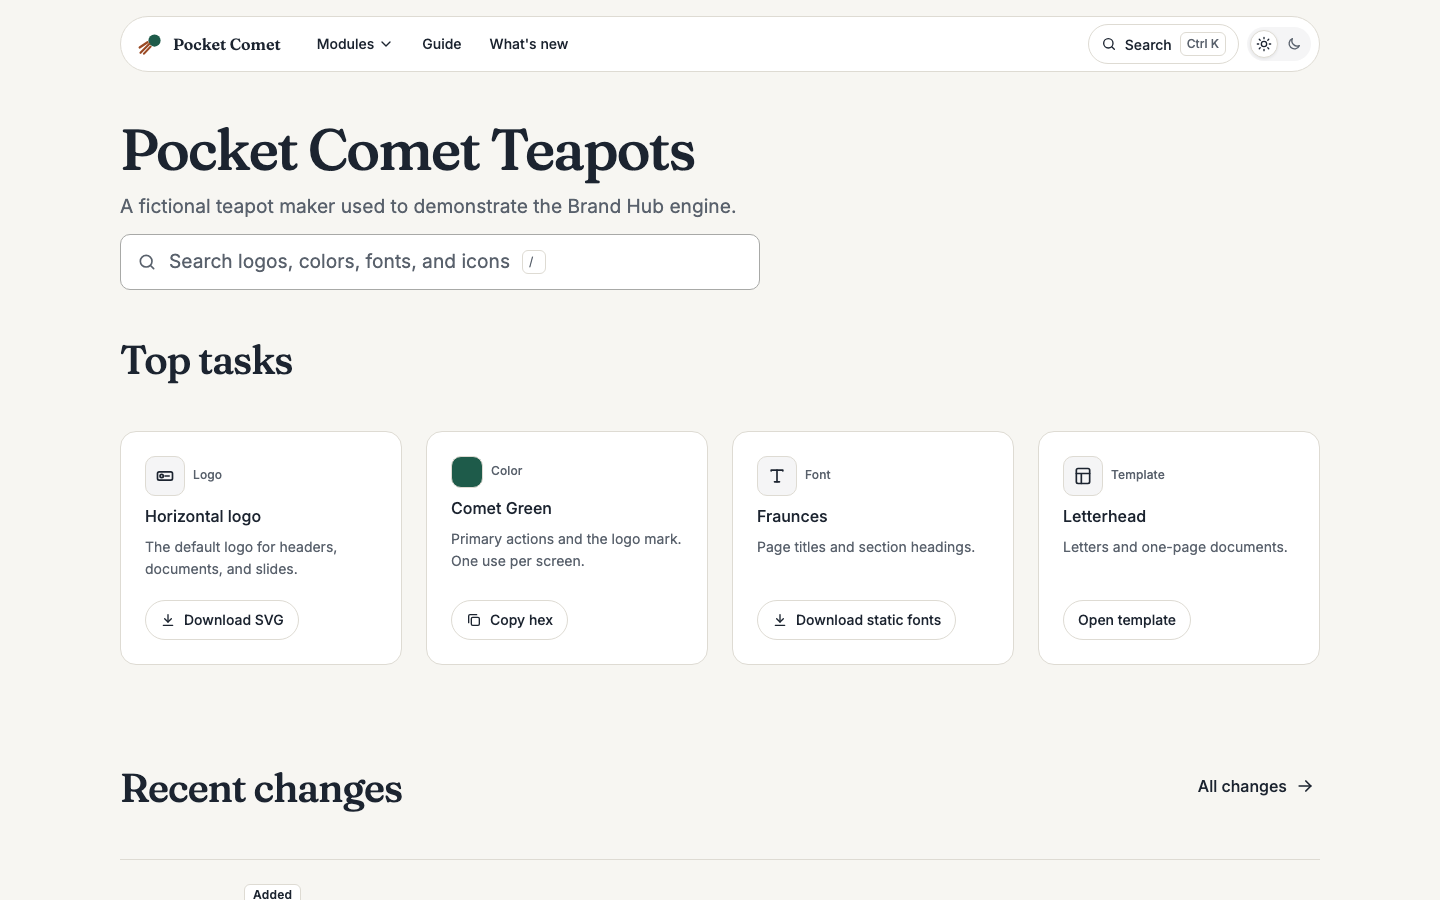
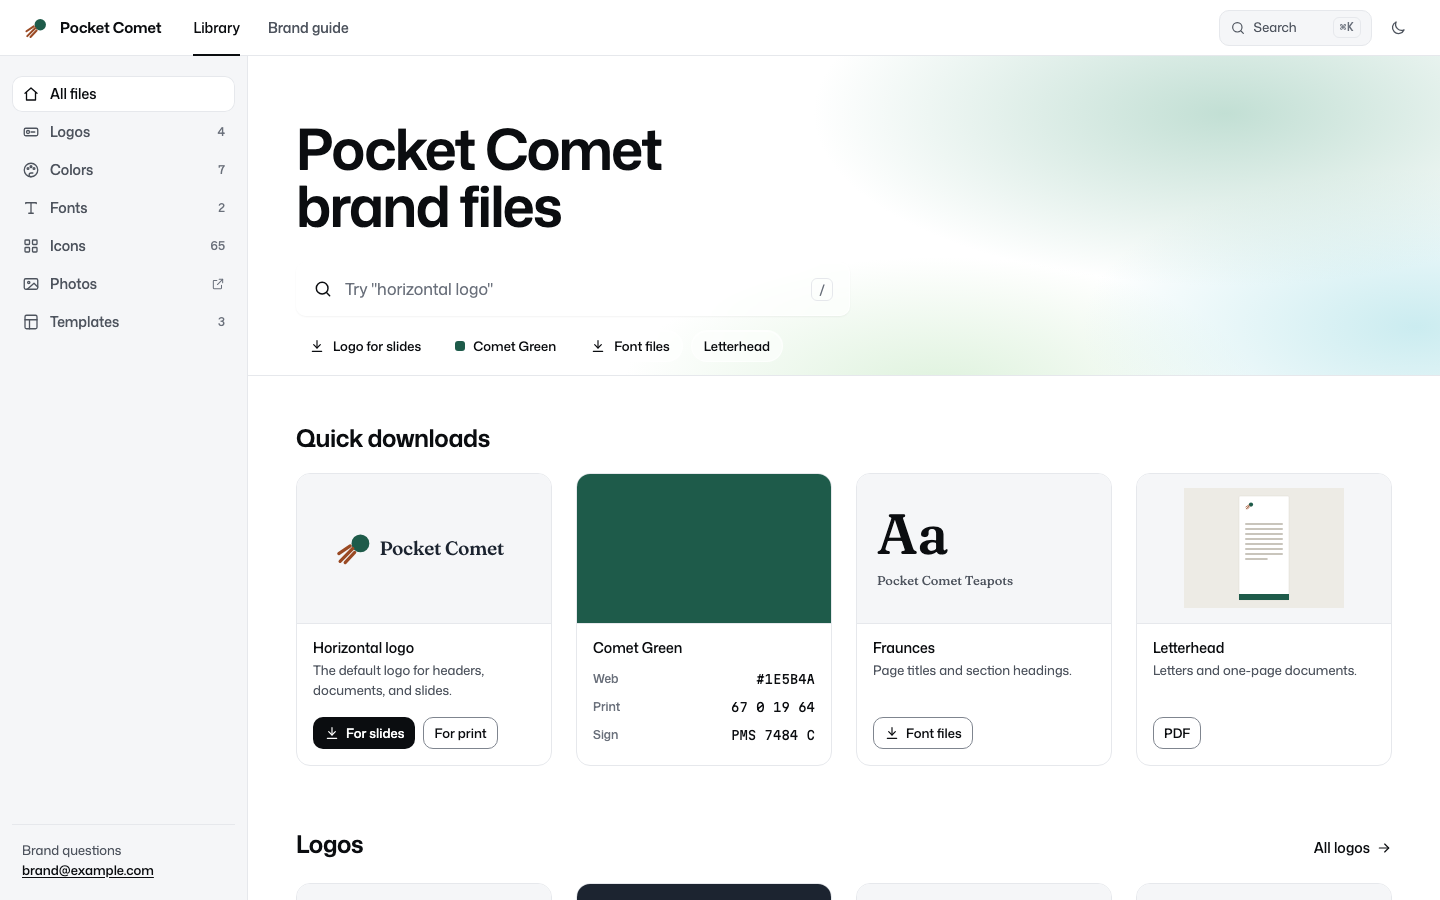
docs: update README for 0.2

diff --git a/README.md b/README.md
@@ -2,11 +2,11 @@
 
 An engine for brand resource sites. It builds a static site of logos, colors, fonts, icons, photos, templates, and brand rules from a folder of brand data, plus an in-site editor for changing that data. One engine serves many brands. Each brand lives in its own instance repository and pins a tagged engine version.
 
-The engine is an [Astro](https://astro.build) integration. Pages are static HTML. React is used only for interactive islands (search, icon detail, logo helper, signature generator, admin).
+The engine is an [Astro](https://astro.build) integration. Pages are static HTML, rendered from React components at build time. In the browser, React runs only in the search dialog and the editor; the rest is a few small page scripts.
 
-Status: 0.1.0. The public site covers home, search, logos, colors, fonts, icons, photos, templates, What's new, and rule pages under `/guide`. The editor at `/admin` edits, previews, saves, and publishes through adapters (`docs/ADAPTERS.md`). Start, signature, and boilerplate arrive in 0.3 and 0.4.
+Status: 0.2.0. The engine owns the interface: a neutral shell in light and dark, with its own interface fonts, that every brand gets unchanged. The public site has three parts: Library (home, logos, colors, fonts, icons, photos, templates), Brand guide (rules grouped into chapters), and Create (the email signature, from 0.3). The editor at `/admin` has an Overview, one workspace per section, and Brand settings, and saves and publishes through adapters (`docs/ADAPTERS.md`). The signature, New to the team, the Office theme, and company descriptions arrive in 0.3 and 0.4.
 
-![Home page of the demo brand, Pocket Comet Teapots: search field, top tasks, and recent changes](docs/screenshot.png)
+![Home page of the demo brand, Pocket Comet Teapots: the sidebar, the search-first hero over a pale green gradient, and Quick downloads](docs/screenshot.png)
 
 The screenshot shows `brands/demo`, a fictional teapot maker used for development, tests, and the public demo.
 
@@ -21,6 +21,13 @@ The screenshot shows `brands/demo`, a fictional teapot maker used for developmen
 pnpm install
 pnpm dev          # http://localhost:4321 with the demo brand; the editor is at /admin
 ```
+
+The site you see is the engine's shell filled with the data in `brands/demo/`. To change what it shows, edit that data, either in the editor at `/admin` (under `pnpm dev` it writes the files on disk) or by hand:
+
+- `brands/demo/*.json` holds the logos, colors, fonts, icons, templates, photo library, and rules. `files/` holds the files they point to.
+- `brands/demo/brand.json` holds the name, the primary color that tints the home hero, the guide chapters, and the Quick downloads row.
+
+Nothing in the brand folder changes the interface itself: colors, type, spacing, and components belong to the engine (see Theming).
 
 ## Commands
 
@@ -51,30 +58,31 @@ hub.config.ts ──► integration ──► loader (schemas + integrity + cont
 | Path | What it does |
 |---|---|
 | `src/integration/index.ts` | `brandHub()` Astro integration. Loads `hub.config.ts`, loads the brand, injects routes, serves `virtual:brand-hub` to pages. |
-| `src/content/load.ts` | Reads `brands/<slug>/`, validates every file, checks ids, references, file paths, and contrast. Returns locked items for public pages and pending items for the "In progress" list. |
-| `src/theme/` | Turns `brand.json` tokens into CSS custom properties for light and dark, and checks WCAG AA contrast. |
-| `src/modules/` | One folder per module. `registry.ts` holds each module's route, label, and menu line. |
-| `src/components/` | Layout, header, footer, and shared components (Button, Card, Tabs, Pills, Accordion, ChangelogEntry ...). |
-| `src/islands/` | React islands: search dialog (loaded on first use), icon detail, Sheet. |
-| `src/scripts/shell.ts` | The one script on every page: theme switch, menus, toasts, copy buttons, search shortcut. |
-| `src/routes/` | Brand files, zip downloads, and the search index, built at build time. |
-| `src/styles/global.css` | Base styles and component classes. Reads only tokens. |
+| `src/content/load.ts` | Reads `brands/<slug>/`, validates every file, checks ids, references, chapters, template formats, file paths, and contrast, and reads 0.1 data with a warning for each old key (`src/content/legacy.ts`). Returns locked items for public pages. |
+| `src/theme/` | The engine's shell tokens for light and dark, the self-hosted interface fonts, the hero color tuning from `tokens.color.primary`, and the contrast checks. |
+| `src/modules/` | One folder per module. `registry.ts` holds each module's route, label, and icon. |
+| `src/site/` | The public pages as React components rendered to static HTML: top bar, sidebar, and footer (`Chrome.tsx`), navigation (`nav.ts`), and one component per page. |
+| `src/components/` | `Layout.astro`, the page frame, and the asset previews shared with the editor. |
+| `src/islands/search/` | The search dialog, loaded the first time search opens. |
+| `src/scripts/` | `shell.ts`, the one script on every page (theme switch, frosted top bar, chip row, toasts, copy buttons, search shortcut), and the page scripts: hero gradient and typed hint, font tester, icon picker, template filters. |
+| `src/routes/` | Brand files, zip downloads, the search index, and redirect pages, built at build time. |
+| `src/styles/global.css` | Base styles and component classes. Reads only shell tokens. |
 | `schemas/` | zod schemas for every data file, and the generated JSON Schema files. |
 | `brands/demo/` | Demo brand. |
 | `scripts/` | `check-copy.mjs`, `check-shell-size.ts`, `validate-brands.ts`, `build-schemas.ts`, `setup-hooks.mjs`. |
 | `tests/` | Vitest tests for the loader, theme pipeline, and integration. |
 
-A module left out of `modules` in `hub.config.ts` gets no route. Navigation and search will follow the same list.
+A module left out of `modules` in `hub.config.ts` gets no route, no navigation item, and no search entries. A top tab with nothing in it is hidden: with no signature module, there is no Create tab.
 
 ## Brand data
 
 ```
 brands/<slug>/
-  brand.json          name, short name, tokens, module settings
+  brand.json          name, short name, primary color, guide chapters, quick downloads, module settings
   assets.json         asset records, or split per module: logos.json, colors.json, fonts.json,
                       icons.json, templates.json, photos.json, boilerplate.json,
                       documents.json, signature.json
-  rules.json          brand rules
+  rules.json          brand rules, each in one guide chapter
   changelog.json      written by the editor on publish
   files/              logos, fonts, icons, thumbnails, documents
 ```
@@ -84,16 +92,32 @@ The build fails, with one line per problem (file, id, problem), when:
 - a file does not match its schema, or a split file holds the wrong asset type
 - two records share an id
 - a `governedBy`, template `rules`, or color `pairings` id is not an existing rule or color, or a rule's `appliesTo` id is not an existing asset
+- a rule's `chapter` is not listed in `guide.chapters`, or a template has none of the four `formats`
+- a `quickDownloads` id is not an existing locked asset
 - a file path does not exist under the brand folder
-- a theme token pair or a declared color pairing is below WCAG 2.2 AA (4.5:1 text, 3:1 large text and graphics)
+- a declared color pairing is below WCAG 2.2 AA (4.5:1 text, 3:1 large text and graphics)
 
-Only `locked` items reach public pages. `pending` items are returned separately. `draft` and `retired` items stay in the data.
+Only `locked` items reach public pages. `pending`, `draft`, and `retired` items stay in the data and show only in the editor.
 
 Run `pnpm validate` to check brand data without building. After changing a zod schema, run `pnpm schemas` to regenerate `schemas/*.schema.json`. `pnpm check` fails while they are stale. `.vscode/settings.json` maps the JSON Schema files to brand files for autocomplete.
 
-## Theme tokens
+## Theming
 
-`brand.json` holds colors (light, optional dark), font families, radii, and the nine-step spacing scale. `src/theme/tokens.ts` writes them as CSS custom properties, with derived colors, the type scale per breakpoint, motion, and layout values. Names and values follow `docs/DESIGN_SYSTEM.md`. Components read only these properties, so a brand changes its look through tokens and never through component code.
+The engine owns the shell. Surfaces, text, borders, controls, focus, frosted glass, spacing, radius, motion, and layout are engine tokens in `src/theme/`, in light and dark, with names and values from `docs/DESIGN_SYSTEM.md`. The interface is set in Mona Sans, with Martian Mono for values people copy; both are self-hosted. A brand cannot override any of this, so every instance gets the same tested, accessible interface.
+
+The brand shows up as content: its logos, swatches, font specimens, icons, and templates. It sets only two things the shell uses:
+
+```json
+{
+  "tokens": { "color": { "primary": "#1E5B4A" } },
+  "hero": { "tint": null }
+}
+```
+
+- `tokens.color.primary` gives the home hero gradient its hue. The engine keeps only the hue and builds three pale tones from it, so a loud brand color still gives a soft, legible background (`docs/ENGINE_SPEC.md`, section 10).
+- `hero.tint` replaces that tuning with up to three exact colors, for a brand that asks for a specific look. `hero.preset: "contour"` in `hub.config.ts` swaps the gradient for thin contour lines, for palettes that are very loud or nearly gray.
+
+Brand fonts appear only on `/fonts`, in the type tester, and in previews.
 
 ## Using the engine in an instance
 
@@ -103,7 +127,7 @@ An instance is a separate, usually private, Astro project that holds one brand's
 
    ```sh
    pnpm add astro @astrojs/react react react-dom
-   pnpm add github:yon-tyzes/brand-hub#v0.1.0
+   pnpm add github:yon-tyzes/brand-hub#v0.2.0
    ```
 
 2. Register the integration in `astro.config.ts`:
@@ -121,10 +145,10 @@ An instance is a separate, usually private, Astro project that holds one brand's
    ```ts
    import { defineHub } from "@yon-tyzes/brand-hub";
 
-   export default defineHub({ brand: "example", modules: ["logos", "colors", "fonts", "icons"] });
+   export default defineHub({ brand: "example", modules: ["logos", "colors", "fonts", "icons", "guide", "changes"] });
    ```
 
-4. Add the brand folder at `brands/example/` and run `pnpm build`. Copying `brands/demo/` from this repo is a quick start; its icons and fonts keep the licenses in `THIRD_PARTY.md`.
+4. Add the brand folder at `brands/example/` and run `pnpm build`. Copying `brands/demo/` from this repo is a quick start; its icons and fonts keep the licenses in `THIRD_PARTY.md`. `brand.json` needs `guide.chapters`, and each rule a `chapter` from that list.
 
 The package ships TypeScript source with no build step on either side. Astro bundles packages that list `astro` as a peer dependency, so Vite compiles the engine while it builds the instance. The package exports:
 
@@ -135,13 +159,19 @@ The package ships TypeScript source with no build step on either side. Astro bun
 
 The engine has no install scripts, because pnpm refuses git-hosted dependencies that run them without an allowlist entry.
 
+## Upgrading an instance from 0.1
+
+Change the pinned tag to `#v0.2.0`, then build. Most 0.1 data still builds and prints one warning per key to change: the shell colors, fonts, radii, and spacing in `brand.json` `tokens` are ignored (keep only `tokens.color.primary`), `topTasks` is read as `quickDownloads`, the `whats-new` module is read as `changes`, and a template `url` shows as a single "Open template" button until it moves to `formats`. One change stops the build: every rule needs a `chapter`, listed in `guide.chapters` in `brand.json`. The 0.1 routes (`/whats-new`, `/start`, `/signature`, `/boilerplate`, `/guide/<rule-id>`) redirect to their new pages.
+
+`docs/ENGINE_SPEC.md`, section 13, lists every change with how the engine handles it.
+
 ## Editor
 
 `/admin` is a React app for adding, editing, reordering, and retiring brand items without touching files. It is built when `admin.enabled` is true in `hub.config.ts`.
 
 | Path | What it does |
 |---|---|
-| `src/admin/ui/` | The app: top bar, section rail, card grid, inspector, dialogs. |
+| `src/admin/ui/` | The app: top bar, sidebar, Overview, the item grid and inspector for each section, Brand settings, dialogs. |
 | `src/admin/fields/` | Inspector fields per section: label, one line of help, and the control. Edit these to change what the editor asks for. |
 | `src/admin/editor/` | No UI: state and undo history, the change set, validation messages, SVG cleaning, upload handling, autosave. |
 | `src/adapters/` | `AuthAdapter` and `ContentAdapter` interfaces, and the built-in `local` and `demo` adapters. |
@@ -174,7 +204,7 @@ Preview renders the public pages from the draft in a panel marked "Preview, not 
 
 ## JavaScript on pages
 
-Every page loads one small shell script (about 2.5 KB gzipped, 5 KB budget checked by `pnpm check`) for the theme switch, menus, toasts, copy buttons, and the search shortcut. The search dialog and its index load the first time search opens. The icons page adds the icon detail island. Other pages add only small inline scripts for tabs, filters, or the logo background toggle.
+Every page loads one small shell script (about 2 KB gzipped, 5 KB budget checked by `pnpm check`) for the theme switch, the frosted top bar, the phone chip row, toasts, copy buttons, and the search shortcut. The search dialog and its index load the first time search opens. The home page loads the hero gradient and the typed search hint after first paint (under 12 KB gzipped). The fonts, icons, and templates pages each add one small script for the type tester, the icon picker, or the filters. Home page JavaScript stays under 100 KB gzipped with search open, which `pnpm test:e2e` measures.
 
 ## Commit hooks
 
